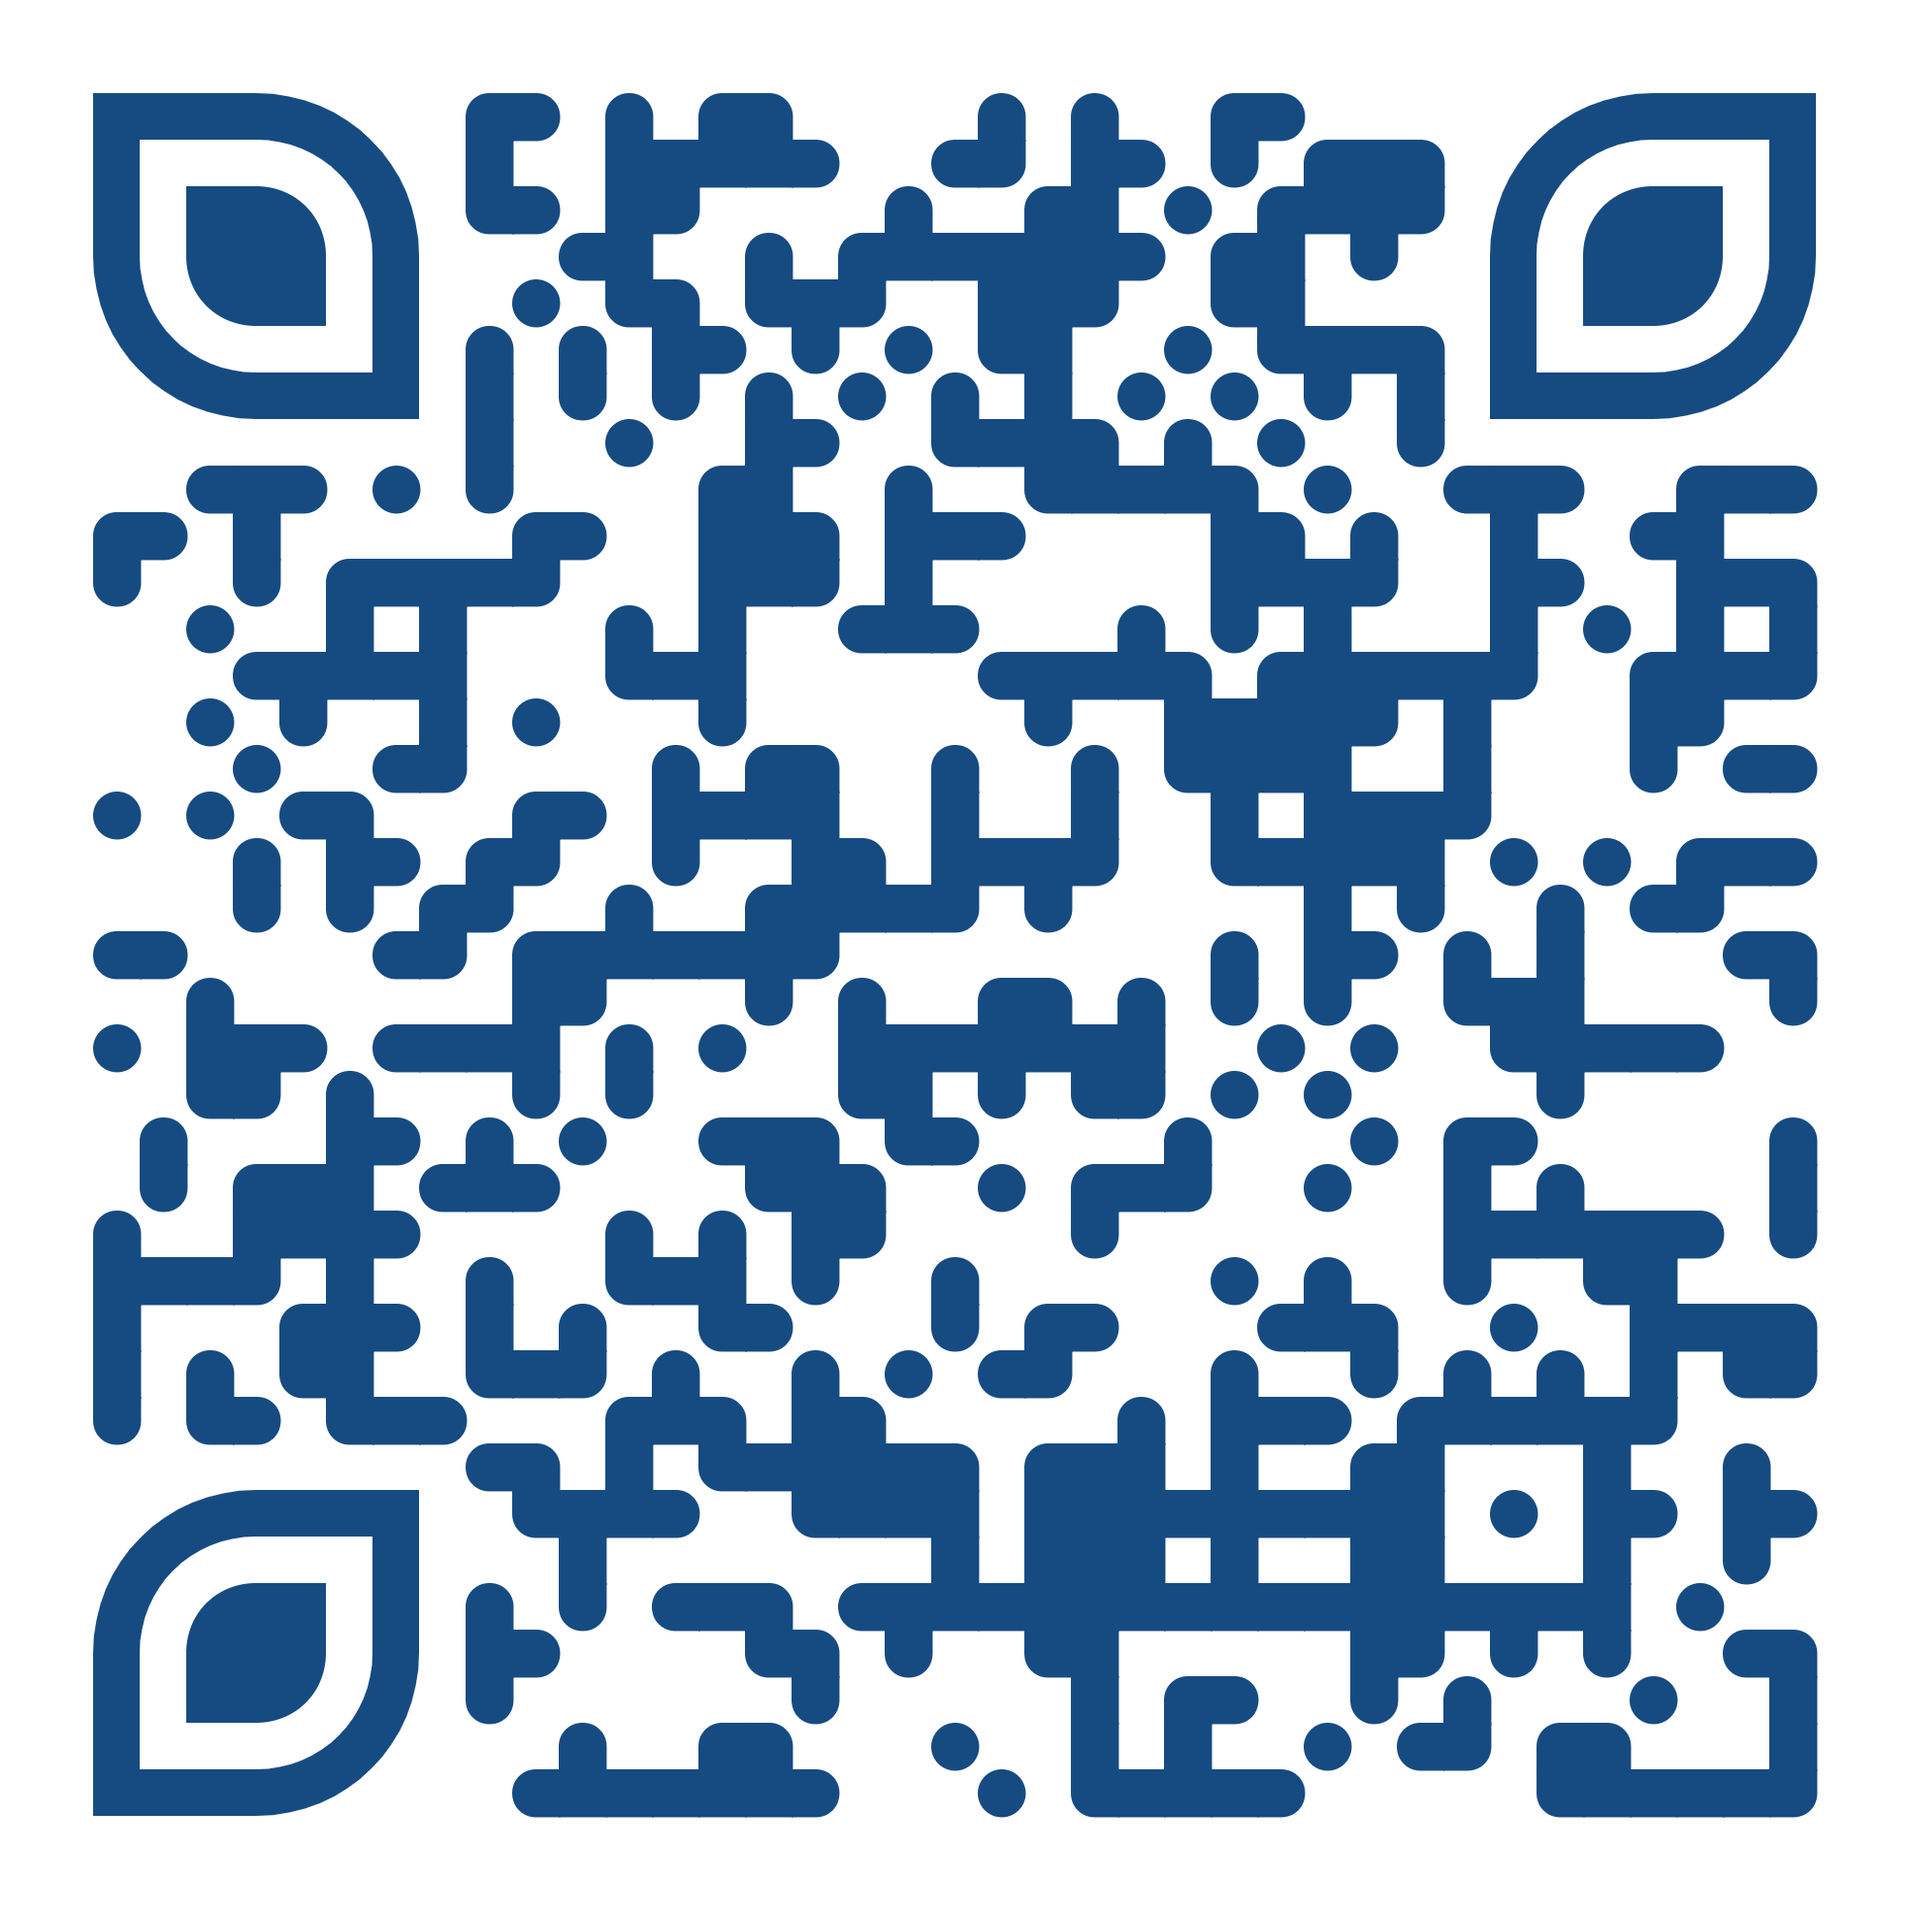
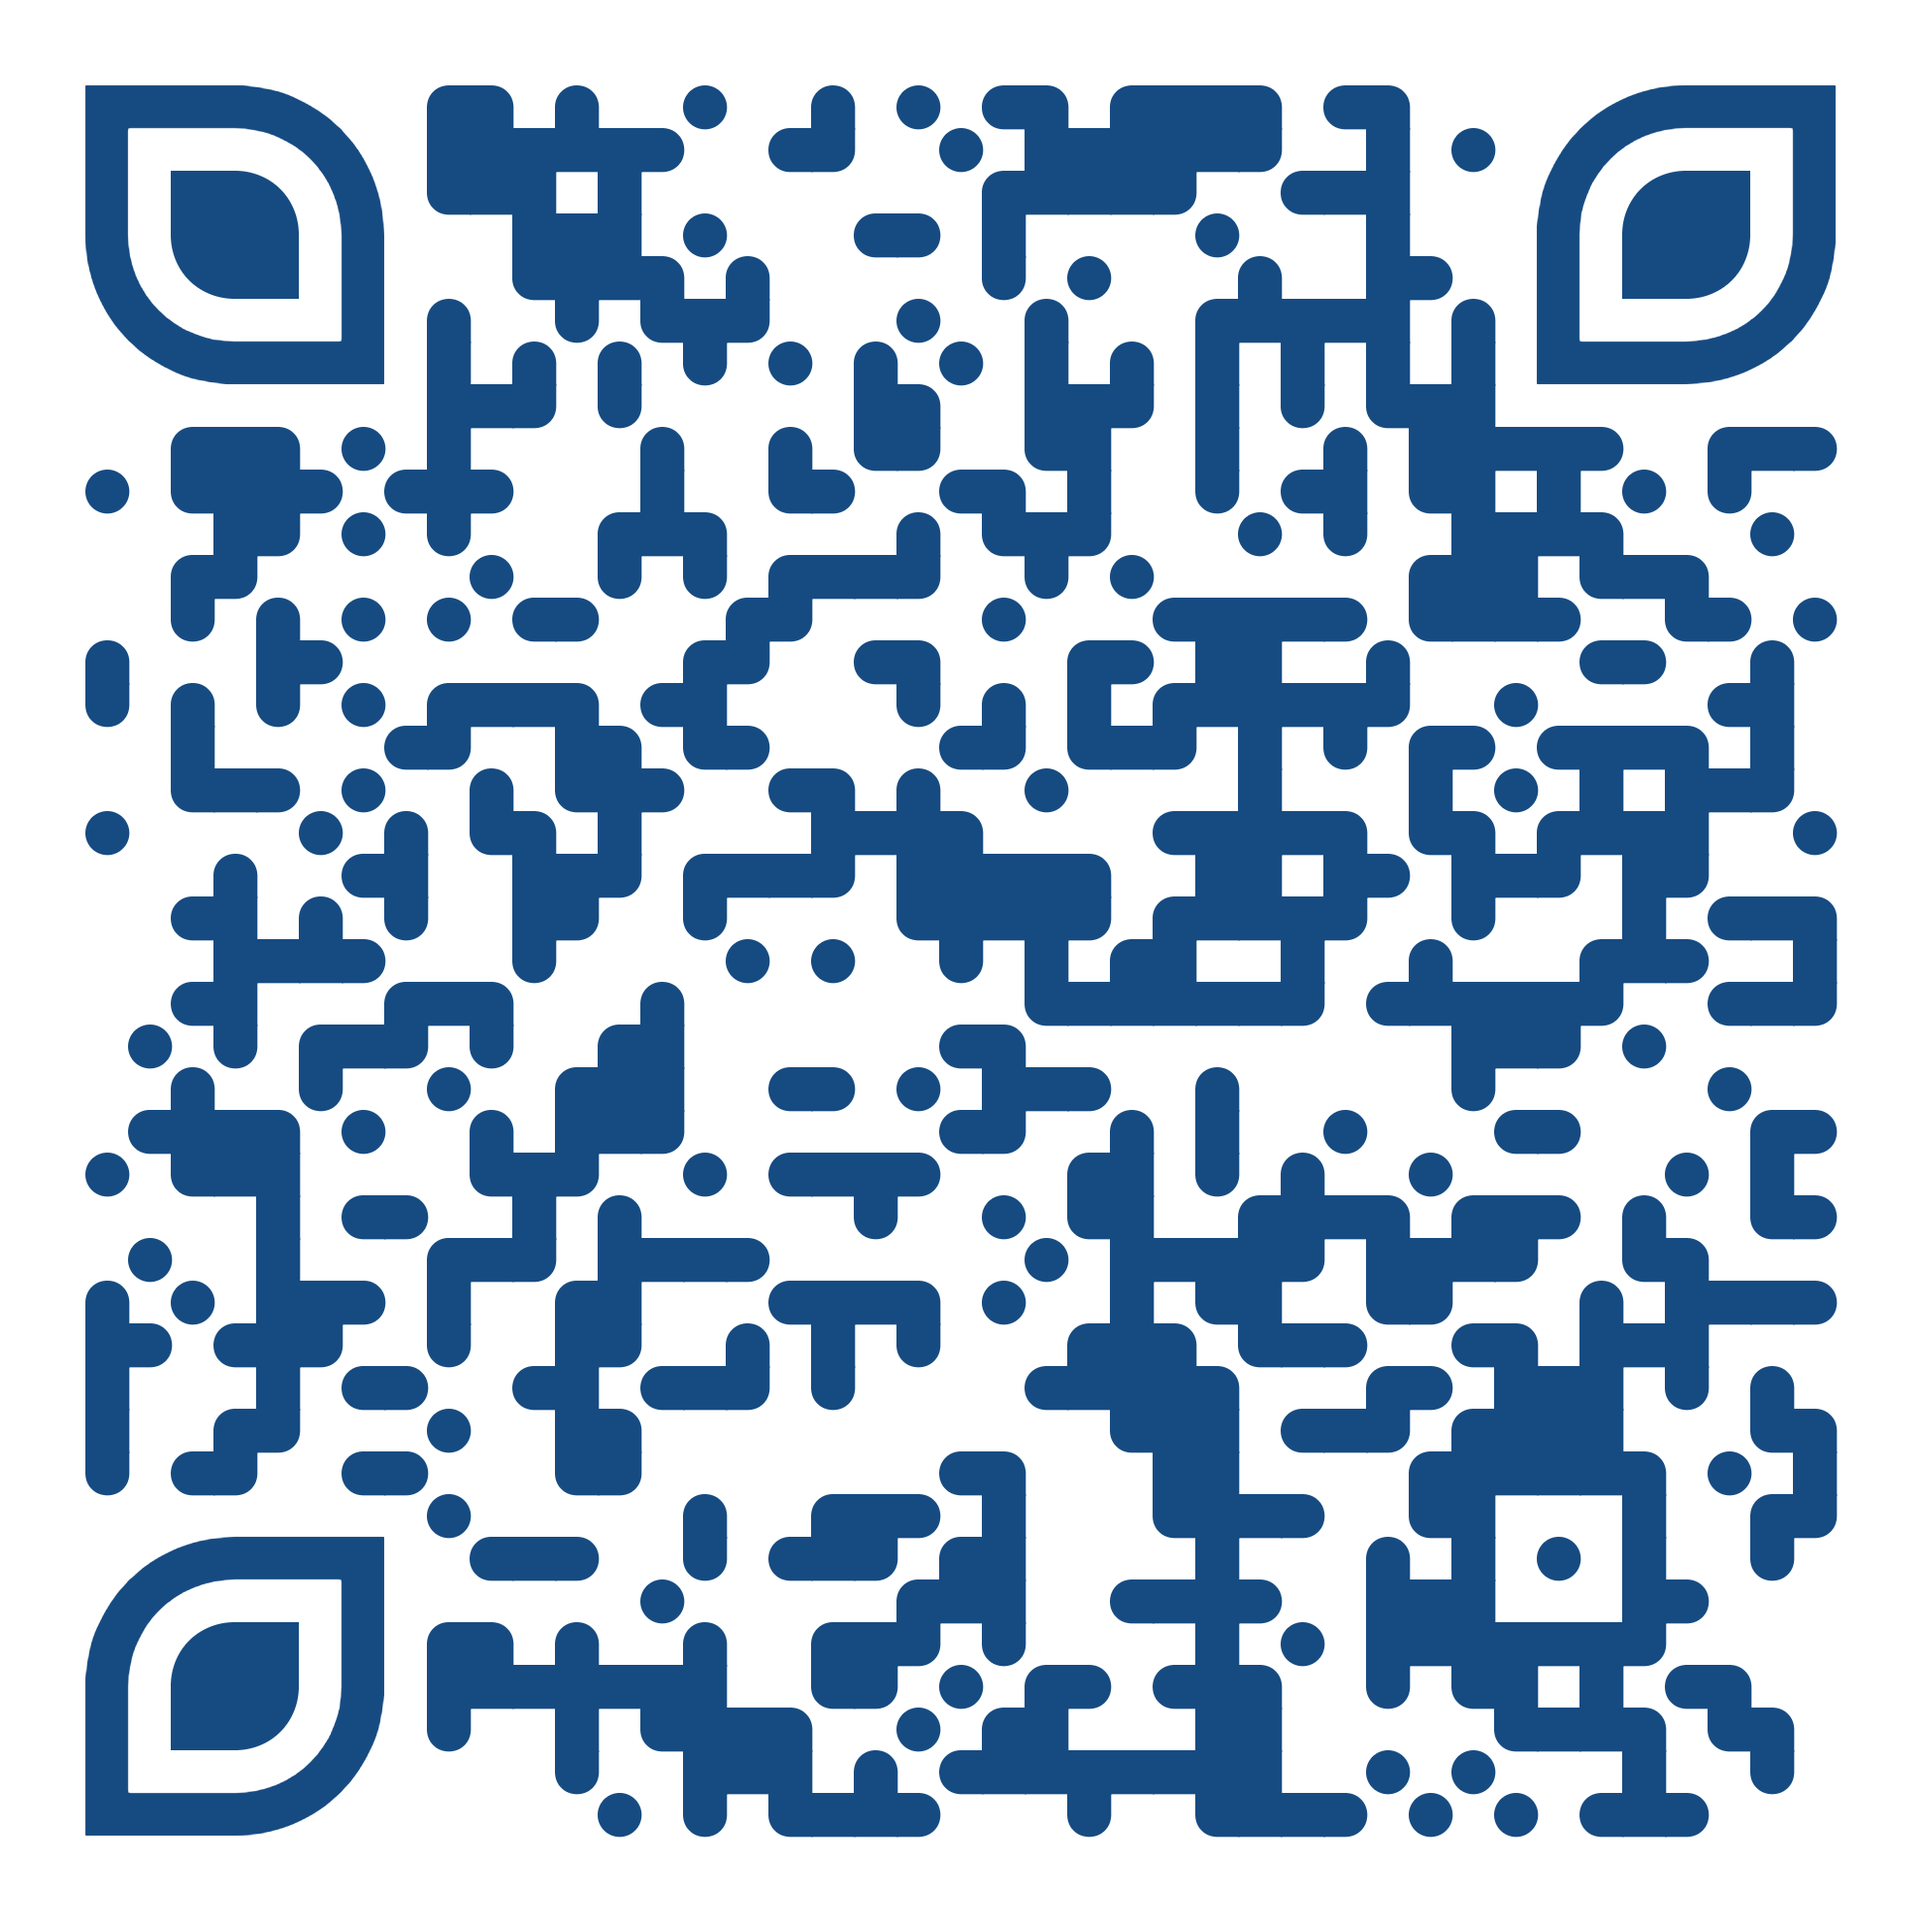
поправил ридми

diff --git a/README.md b/README.md
@@ -271,7 +271,9 @@ https://springboard.numerum.team
 
 ## Демонстрация 
 
-Видео ДЕМОНСТРАЦИИ проекта достпуно по ссылке: https://vkvideo.ru/video-237166148_456239017
+Видео ДЕМОНСТРАЦИИ проекта достпуно по ссылке: https://rutube.ru/video/b735056d4624028858cc18f4b8cba38b/
+
+А также по этой ссылке: https://disk.yandex.ru/i/jfSKMd9uadv2rg
 
 Пожалуйста, досмотрите видео целиком.
 
